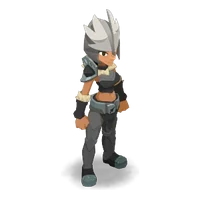
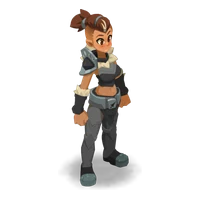
Forgelance : rendu DofusDB sans casque, avec coiffes et capes
Les numéros d'apparence du Forgelance dessinent un casque et une tête détachée. DofusDB fabrique un jeton de rendu correct pour la classe et les objets portés : le jeu le demande quand une coiffe ou une cape est équipée, sinon il affiche l'image locale tirée de ce rendu. Tête et couleurs d'origine (choix de tête et de couleurs masqués pour le Forgelance), recomposition de la tête retirée.

Claude-Session: https://claude.ai/code/session_01TgfgsFbfimzPE6UbE45j36

Changed region(s): [[0.33, 0.03, 0.66, 0.93], [0.42, 0.93, 0.45, 0.96]]

diff --git a/js/ui.js b/js/ui.js
@@ -176,60 +176,26 @@ const lookLocal = (cls, sex, hi) => `assets/look/${cls}_${sex === "f" ? "f" : "m
 function lookUrl(c, opts = {}) {
   const L = LK.CLASS_LOOKS[c.cls]; if (!L) return null; const sx = c.sex === "f" ? "f" : "m"; const D2 = L[sx]; const hi = Math.max(0, Math.min(D2.heads.length - 1, c.head || 0));
   const skins = [D2.body, D2.heads[hi]];
-  if (!opts.bare && c.equip) ["coiffe", "cape"].forEach((sl) => { const it = S && S.items[c.equip[sl]]; const sk = it && LK.ITEM_SKINS[it.tpl]; if (sk && !(c.cls === "forge" && sl === "coiffe")) skins.push(sk); }); // le moteur de rendu ne pose aucune coiffe sur le Forgelance
+  const worn = []; if (!opts.bare && c.equip) ["coiffe", "cape"].forEach((sl) => { const it = S && S.items[c.equip[sl]]; const sk = it && LK.ITEM_SKINS[it.tpl]; if (sk) { skins.push(sk); worn.push(+it.tpl.slice(1)); } });
+  if (c.cls === "forge") return worn.length ? forgeLook(sx, worn) : lookLocal("forge", sx, 0); // Forgelance : rendu DofusDB (voir forgeLook)
   const pal = LK.PALETTES.find((p) => p.id === (opts.palette || c.palette)) || LK.PALETTES[0];
   const cols = D2.colors.slice(); if (pal && pal.c) pal.c.forEach((v, i) => (cols[i + 1] = v));
   if (skins.length === 2 && (!pal || !pal.c)) return lookLocal(c.cls, sx, hi);
-  if (c.cls === "forge") return forgeLook(skins, cols, sx, hi); // Forgelance : tête recollée sur le cou (voir forgeLook)
   const look = `{1|${skins.join(",")}|${cols.map((v, i) => `${i + 1}=${v}`).join(",")}|140}`;
   let hex = ""; for (const ch of unescape(encodeURIComponent(look))) hex += ch.charCodeAt(0).toString(16).padStart(2, "0");
   return `https://static.ankama.com/dofus/renderer/look/${hex}/full/1/200_200-10.png`;
 }
-/* Forgelance : les moteurs de rendu (Ankama et DofusDB) dessinent sa tête à côté du corps et sans ses couleurs.
-   On demande à DofusDB (qui autorise la lecture des pixels) le corps seul et la tête seule, on cale la tête sur l'ombre au sol
-   (repère commun aux deux images), on la pose sur le cou et on colore la peau quand elle arrive pâle. Résultat gardé en mémoire et dans le navigateur. */
-const FORGE_NECK = [-290, -420], FORGE_KEY = "idlus-forge-v1", FORGE = { map: null, wait: {} };
-const forgeHex = (skins, cols) => { let x = ""; for (const ch of `{1|${skins.join(",")}|${cols.map((v, i) => `${i + 1}=${v}`).join(",")}|140}`) x += ch.charCodeAt(0).toString(16).padStart(2, "0"); return `https://renderer.dofusdb.fr/look/${x}/full/1/300_300.png`; };
-function forgeStore() { if (!FORGE.map) { FORGE.map = new Map(); try { (JSON.parse(localStorage.getItem(FORGE_KEY)) || []).forEach(([k, v]) => FORGE.map.set(k, v)); } catch (e) { /* stockage indisponible */ } } return FORGE.map; }
-function forgeLook(skins, cols, sx, hi) {
-  const key = skins.join("-") + "_" + cols.join("-"), m = forgeStore();
-  if (m.has(key)) return { src: m.get(key), key };
-  if (!FORGE.wait[key]) FORGE.wait[key] = forgeCompose(skins, cols).then((url) => {
-    m.delete(key); m.set(key, url); while (m.size > 12) m.delete(m.keys().next().value);
-    try { localStorage.setItem(FORGE_KEY, JSON.stringify([...m])); } catch (e) { /* stockage plein : on garde en mémoire */ }
-    document.querySelectorAll(`img[data-fk="${key}"]`).forEach((im) => (im.src = url));
+/* Forgelance : avec ses numéros d'apparence, le moteur de rendu dessine un casque et pose la tête à côté du corps.
+   DofusDB sait le dessiner correctement (tête par défaut, couleurs d'origine) à partir d'un jeton qu'il fabrique pour la classe
+   et les objets portés : on demande le jeton, puis l'image. Les coiffes et capes s'affichent ; ni choix de tête ni couleurs. */
+const FORGE = { tok: {}, wait: {} };
+function forgeLook(sx, items) {
+  const key = sx + (items.length ? "-" + items.join("-") : ""), url = (t) => { let x = ""; for (const ch of t) x += ch.charCodeAt(0).toString(16).padStart(2, "0"); return `https://renderer.dofusdb.fr/kool/${x}/full/1/300_300.png`; };
+  if (FORGE.tok[key]) return url(FORGE.tok[key]);
+  if (!FORGE.wait[key]) FORGE.wait[key] = fetch(`https://api.dofusdb.fr/look?breedId=20&sexe=${sx}${items.map((i) => "&itemIds[]=" + i).join("")}`).then((r) => r.json()).then((t) => {
+    if (typeof t !== "string") return; FORGE.tok[key] = t; document.querySelectorAll(`img[data-fk="${key}"]`).forEach((im) => (im.src = url(t)));
   }).catch(() => {}); // hors ligne : l'image locale reste
-  return { src: lookLocal("forge", sx, hi), key };
-}
-const forgeLoad = (u) => new Promise((ok, ko) => { const i = new Image(); i.crossOrigin = "anonymous"; i.onload = () => ok(i); i.onerror = ko; i.src = u; });
-const forgePix = (img) => { const c = document.createElement("canvas"); c.width = img.naturalWidth; c.height = img.naturalHeight; const x = c.getContext("2d"); x.drawImage(img, 0, 0); return { c, d: x.getImageData(0, 0, c.width, c.height) }; };
-function forgeShadow(d, W, H) { // bas de l'ombre au sol, largeur et centre juste au-dessus
-  const on = (x, y) => d[(y * W + x) * 4 + 3] > 4; let y = H - 1; while (y > 0) { let x = 0; while (x < W && !on(x, y)) x++; if (x < W) break; y--; }
-  const yy = y - 6; let x0 = W, x1 = -1; for (let x = 0; x < W; x++) if (on(x, yy)) { if (x < x0) x0 = x; x1 = x; } return { y, w: Math.max(1, x1 - x0), cx: (x0 + x1) / 2 };
-}
-function forgeTint(d, cols) { // certaines têtes arrivent avec la peau non colorée (beige pâle) : on lui donne la couleur de peau ; le casque reste en métal
-  const skin = [(cols[0] >> 16) & 255, (cols[0] >> 8) & 255, cols[0] & 255];
-  for (let i = 0; i < d.length; i += 4) {
-    if (!d[i + 3]) continue; const r = d[i], g = d[i + 1], b = d[i + 2], mx = Math.max(r, g, b), mn = Math.min(r, g, b);
-    if (mx < 150 || mx - mn < 18 || !(r > b + 15 && r >= g) || (mx - mn) / mx > 0.3) continue;
-    const k = Math.min(1.2, (r * 0.3 + g * 0.59 + b * 0.11) / 215); d[i] = Math.min(255, skin[0] * k); d[i + 1] = Math.min(255, skin[1] * k); d[i + 2] = Math.min(255, skin[2] * k);
-  }
-}
-async function forgeCompose(skins, cols) {
-  const [B, Hd] = await Promise.all([forgeLoad(forgeHex([skins[0], ...skins.slice(2)], cols)), forgeLoad(forgeHex([skins[1]], cols))]);
-  const b = forgePix(B), h = forgePix(Hd), W = b.c.width, H = b.c.height, HW = h.c.width, HH = h.c.height, d = h.d.data;
-  const sb = forgeShadow(b.d.data, W, H), sh = forgeShadow(d, HW, HH), k = sb.w / sh.w;
-  let cut = HH, run = 0, best = 0; // l'ombre de la tête seule est sous la plus grande bande vide : on l'efface
-  for (let y = 0; y < HH; y++) { let x = 0; while (x < HW && d[(y * HW + x) * 4 + 3] <= 4) x++; if (x === HW) { if (++run > best) { best = run; cut = y; } } else run = 0; }
-  d.fill(0, cut * HW * 4); forgeTint(d, cols); h.c.getContext("2d").putImageData(h.d, 0, 0);
-  const pad = 400, out = document.createElement("canvas"); out.width = W; out.height = H + pad; const o = out.getContext("2d");
-  o.drawImage(B, 0, pad); o.drawImage(h.c, sb.cx - sh.cx * k + FORGE_NECK[0], pad + sb.y - sh.y * k + FORGE_NECK[1], HW * k, HH * k);
-  // recadrage comme les rendus Ankama (200 × 200, personnage sur ~90 % de la hauteur, centré)
-  const od = o.getImageData(0, 0, out.width, out.height).data; let x0 = W, y0 = out.height, x1 = 0, y1 = 0;
-  for (let y = 0; y < out.height; y++) for (let x = 0; x < W; x++) if (od[(y * W + x) * 4 + 3] > 4) { if (x < x0) x0 = x; if (x > x1) x1 = x; if (y < y0) y0 = y; if (y > y1) y1 = y; }
-  const S = 300, sc = Math.min(S * 0.905 / (y1 - y0), S * 0.9 / (x1 - x0)), fin = document.createElement("canvas"); fin.width = fin.height = S;
-  fin.getContext("2d").drawImage(out, x0, y0, x1 - x0, y1 - y0, (S - (x1 - x0) * sc) / 2, S * 0.045, (x1 - x0) * sc, (y1 - y0) * sc);
-  return fin.toDataURL("image/webp", 0.9);
+  return { src: lookLocal("forge", sx, 0), key };
 }
 const lookImg = (c, cls = "look", opts) => { const u = lookUrl(c, opts); if (!u) return ""; const fb = lookLocal(c.cls, c.sex, c.head || 0);
   if (typeof u === "object") return `<img class="${cls}" src="${u.src}" data-fk="${u.key}" alt="" loading="lazy">`; // Forgelance recomposé (image locale en attendant)
@@ -240,8 +206,8 @@ function lookSheet(c) {
   openSheet(`<h2>Apparence de ${h(c.name)}</h2>
     <div class="lookprev">${lookImg(c, "lookbig")}</div>
     <div class="small"><b>Sexe</b> <span class="seg">${[["m", "Homme"], ["f", "Femme"]].map(([v, n]) => `<button data-act="looksex" data-v="${v}" aria-pressed="${sx === v}">${n}</button>`).join("")}</span></div>
-    ${`<div class="small"><b>Tête</b><div class="headpick">${L[sx].heads.map((_, i) => `<button class="${(c.head || 0) === i ? "on" : ""}" data-act="lookhead" data-v="${i}">${`<img src="${lookLocal(c.cls, sx, i)}" alt="">`}</button>`).join("")}</div></div>`}
-    ${c.cls === "forge" ? `<p class="xs muted">Le Forgelance porte son casque de classe ; les coiffes ne s'affichent pas encore sur lui (les capes, si).</p>` : ""}<div class="small"><b>Couleurs</b><div class="palpick">${LK.PALETTES.map((p) => { const cols = L[sx].colors.slice(); if (p.c) p.c.forEach((v, i) => (cols[i + 1] = v)); return `<button class="${(c.palette || "classique") === p.id ? "on" : ""}" data-act="lookpal" data-v="${p.id}"><span class="sw">${cols.slice(1, 5).map((v) => `<i style="background:#${v.toString(16).padStart(6, "0")}"></i>`).join("")}</span>${h(p.name)}</button>`; }).join("")}</div></div>
+    ${c.cls === "forge" ? "" : `<div class="small"><b>Tête</b><div class="headpick">${L[sx].heads.map((_, i) => `<button class="${(c.head || 0) === i ? "on" : ""}" data-act="lookhead" data-v="${i}">${`<img src="${lookLocal(c.cls, sx, i)}" alt="">`}</button>`).join("")}</div></div>`}
+    ${c.cls === "forge" ? `<p class="xs muted">Le Forgelance s'affiche avec sa tête et ses couleurs d'origine ; ses coiffes et capes apparaissent.</p>` : ""}<div class="small" ${c.cls === "forge" ? 'style="display:none"' : ""}><b>Couleurs</b><div class="palpick">${LK.PALETTES.map((p) => { const cols = L[sx].colors.slice(); if (p.c) p.c.forEach((v, i) => (cols[i + 1] = v)); return `<button class="${(c.palette || "classique") === p.id ? "on" : ""}" data-act="lookpal" data-v="${p.id}"><span class="sw">${cols.slice(1, 5).map((v) => `<i style="background:#${v.toString(16).padStart(6, "0")}"></i>`).join("")}</span>${h(p.name)}</button>`; }).join("")}</div></div>
     <p class="xs muted">${Object.keys(LK.ITEM_SKINS).length} coiffes et capes apparaissent déjà sur les héros ; les autres arriveront au fil des mises à jour.</p>
     <div><button class="btn primary" data-act="closesheet">Terminé</button></div>`);
 }
@@ -513,11 +479,11 @@ function classInfo(id, sex, hd) {
 }
 /* Choix de la tête dès la création du héros */
 function headPick(id, sex) {
-  const L = LK.CLASS_LOOKS[id]; const sx = sex === "f" ? "f" : "m"; if (!L || L[sx].heads.length < 2) return "";
+  const L = LK.CLASS_LOOKS[id]; const sx = sex === "f" ? "f" : "m"; if (!L || id === "forge" || L[sx].heads.length < 2) return "";
   const cur = Math.min(ui.startHead || 0, L[sx].heads.length - 1);
   return `<div class="stack" style="gap:4px"><span class="small muted">Tête</span><div class="headpick">${L[sx].heads.map((_, i) => `<button class="${cur === i ? "on" : ""}" data-act="starthead" data-v="${i}" aria-pressed="${cur === i}"><img src="${lookLocal(id, sx, i)}" alt="Tête ${i + 1}"></button>`).join("")}</div></div>`;
 }
-const startHeadOf = (id, sex) => { const L = LK.CLASS_LOOKS[id]; const n = L ? L[sex === "f" ? "f" : "m"].heads.length : 1; return Math.min(ui.startHead || 0, n - 1); };
+const startHeadOf = (id, sex) => { const L = LK.CLASS_LOOKS[id]; const n = L ? L[sex === "f" ? "f" : "m"].heads.length : 1; return id === "forge" ? 0 : Math.min(ui.startHead || 0, n - 1); };
 const hasPublicSave = () => { try { return !!localStorage.getItem("dofousxen-save"); } catch (e) { return false; } };
 function renderStart() {
   renderStatus(); renderNav();

diff --git a/CLAUDE.md b/CLAUDE.md
@@ -6,7 +6,7 @@ Idle game de fan inspiré de DOFUS, par Mathis. Jeu : https://mathiss29.github.i
 - SPA en JavaScript sans build : `index.html`, `css/style.css`, `js/gamedata.js`, `js/looks.js`, `js/data.js`, `js/engine.js` (combat, stasis, équilibrage), `js/systems.js`, `js/ui.js` (rendu, CHANGELOG, GAME_VERSION).
 - Sauvegarde dans localStorage sous la clé `dofousxen-save` (ne pas renommer). Migrations via `E.VERSION` dans engine.js.
 - PWA : `sw.js` (VERSION = version du jeu ; MEDIA = cache des images, à incrémenter si une image change de contenu sans changer de nom), `manifest.webmanifest`, `icons/`.
-- Visuels : `assets/look` (héros en pied, rendus Ankama ; le Forgelance est recomposé par le jeu à partir du rendu DofusDB, voir `forgeLook` dans ui.js), `assets/ui` (icônes officielles), `assets/m`, `assets/s`, `assets/i`.
+- Visuels : `assets/look` (héros en pied, rendus Ankama ; le Forgelance vient du rendu « kool » de DofusDB, voir `forgeLook` dans ui.js), `assets/ui` (icônes officielles), `assets/m`, `assets/s`, `assets/i`.
 - Thèmes : `data-theme="emerald"` (défaut) et `"dark"` (Nuit violette).
 
 ## Publier une version
